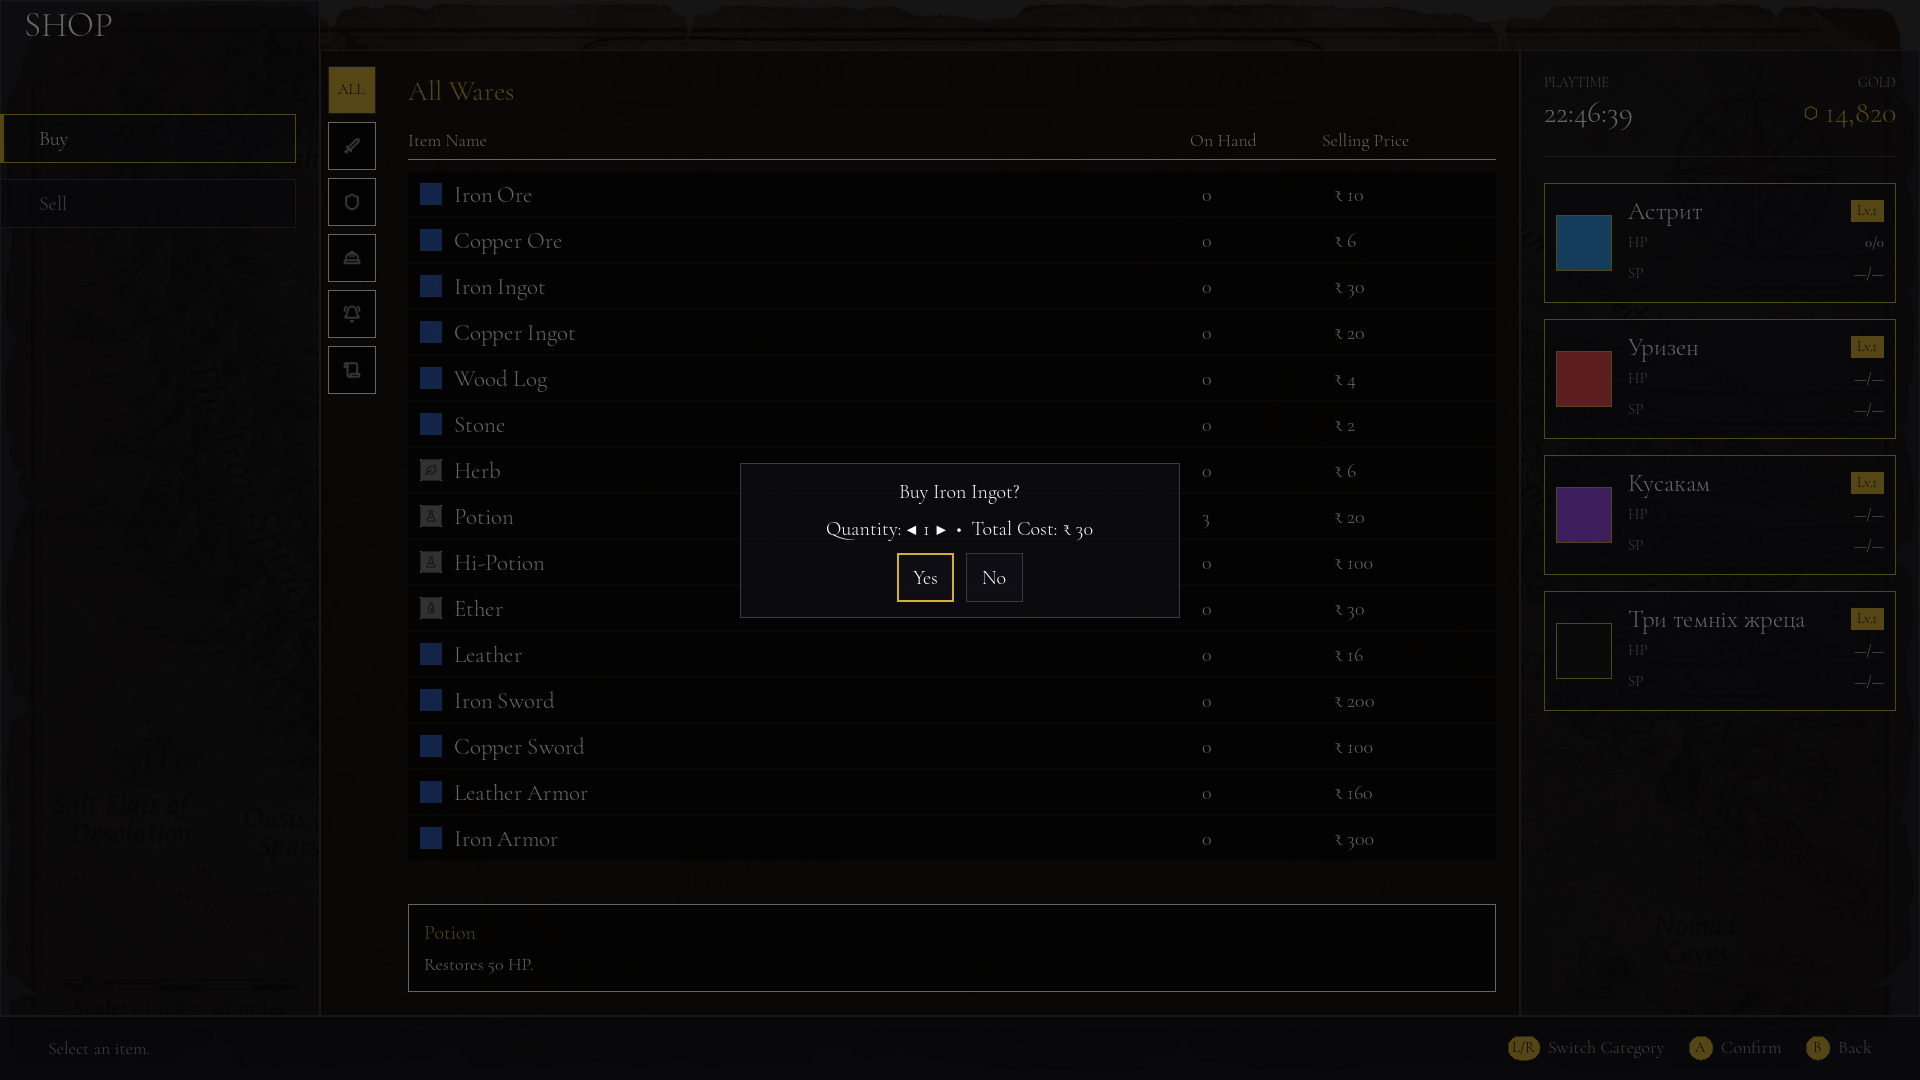
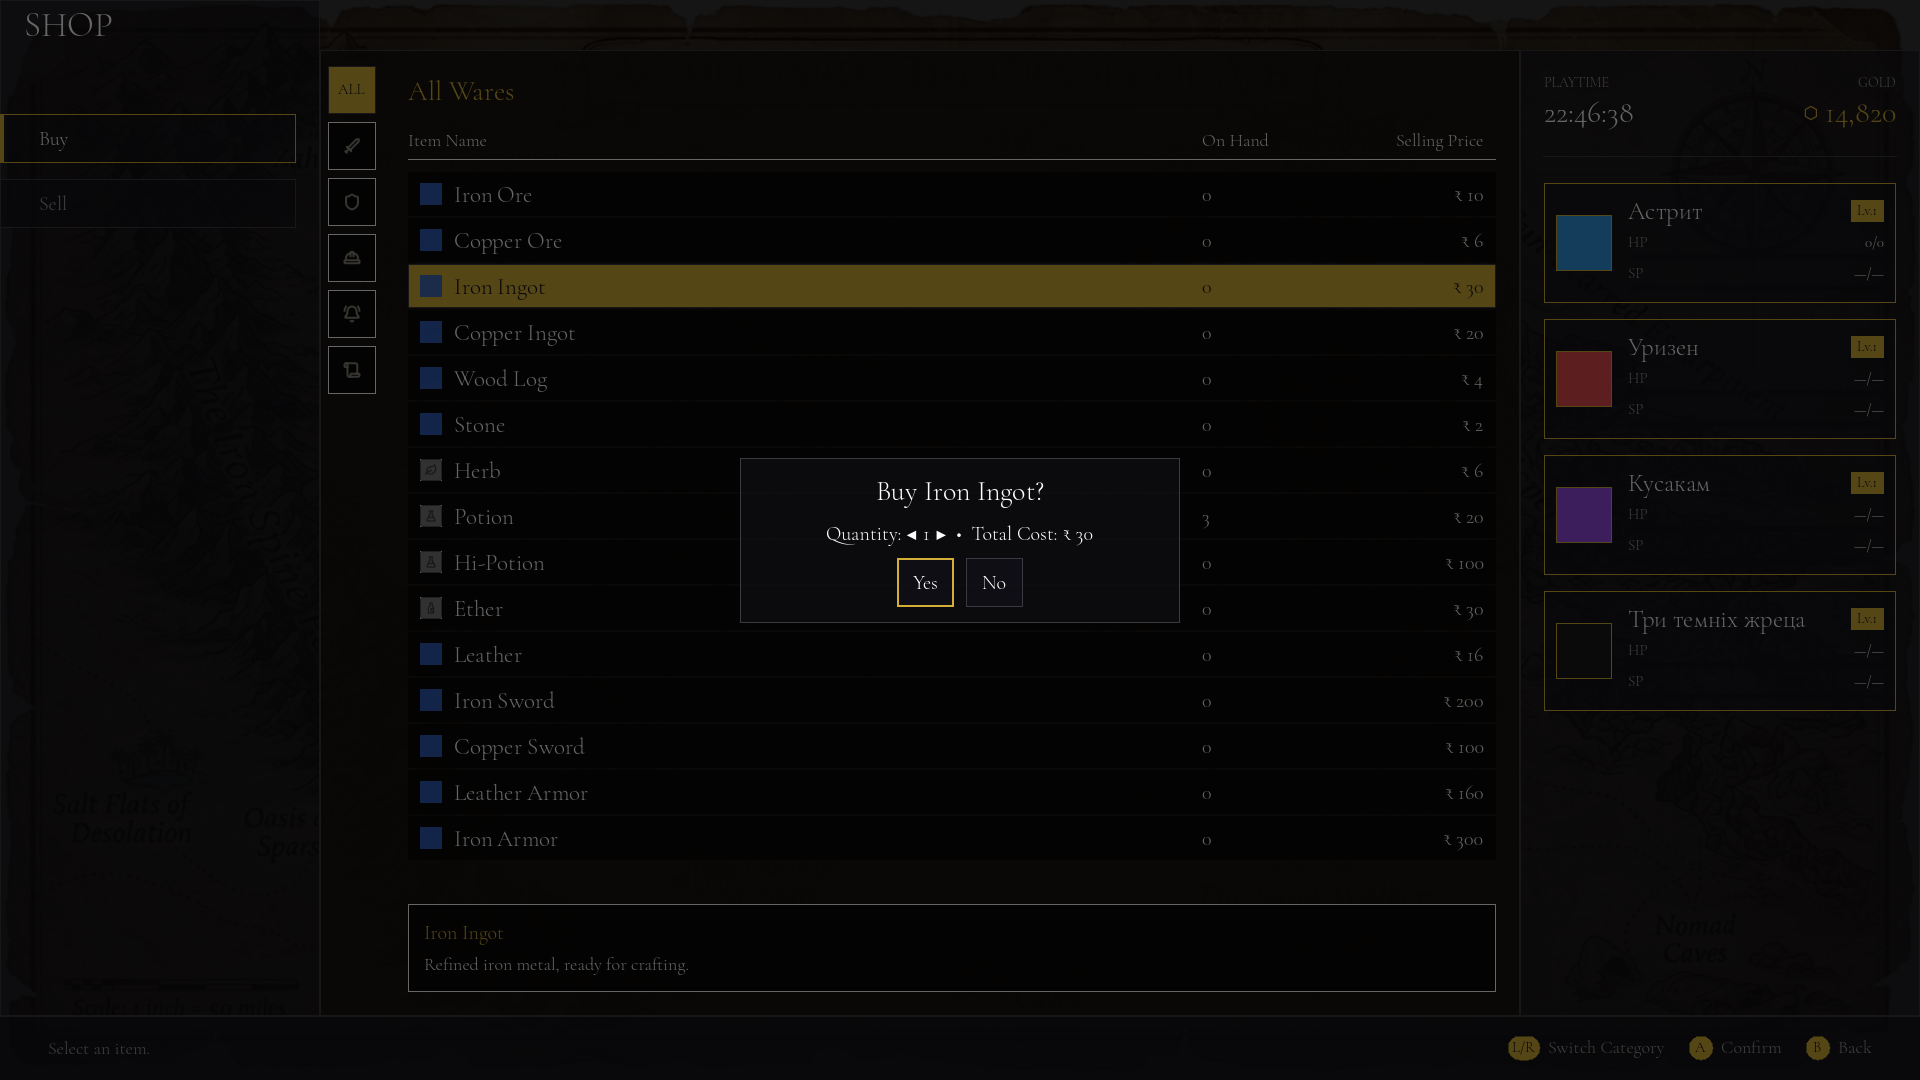
Shop: activated row names itself in the detail panel and stays selected under the buy modal (#72, B24)
_on_row_activated shows the row's description before the modal opens, so a
click without focus no longer leaves the previous item in the panel. The
target row calls ShopRow.hold_selected(): theme variation ShopRowOn (accent
in every state) plus the On label styles, until refresh() rebuilds the list
after the modal. Inventory half was already fixed; verify_inventory now
proves the hint was populated before the empty KEY ITEMS clears it.
capture_shop focuses the row before pressing. verify_shop [3b].

diff --git a/design/BUGS.md b/design/BUGS.md
@@ -229,22 +229,6 @@ built*, not here.
   right-hand hints overrun the card edge by 10px — a whole scale step, not rounding.
 - **Severity:** visual
 
-### B24 — Item detail panel goes stale; the buy confirmation identifies nothing but its own title
-- **Where:** shop item detail bar and inventory description bar — one shared defect.
-- **Evidence:**
-  - `shop_buy_confirm_1920.png` — the modal reads *"Buy Iron Ingot? / Quantity: 1
-    • Total Cost: ₹ 30"*, while the detail panel below still reads *"Potion —
-    Restores 50 HP."*, **and the Iron Ingot row carries no selection fill**. Nothing
-    on screen except the modal title says what is being bought.
-  - `inventory_filter_key_items_1920.png` — the list shows *"No items in this
-    category."* while the description bar still reads *"Iron Ore — Raw iron ore…"*,
-    an item that is not even in the KEY ITEMS filter.
-- **Expected:** the detail panel tracks the acting/selected item, and clears to the
-  placeholder (`shop_sell_1920.png` uses *"Select an item."*) when there is none.
-  The target row stays visibly selected while its modal is open, as in `shop_sell`.
-- **Severity:** blocker
-- **Found:** 2026-09-29, screenshot review (agent pass).
-
 ### B27 — Button normal/focus styling is inconsistent across modals
 - **Where:** shop confirm modal (Yes/No) and the dialogue bar (Auto/Skip).
 - **Evidence:** `shop_buy_confirm_1920.png` — `Yes` = gold 2px border, transparent
